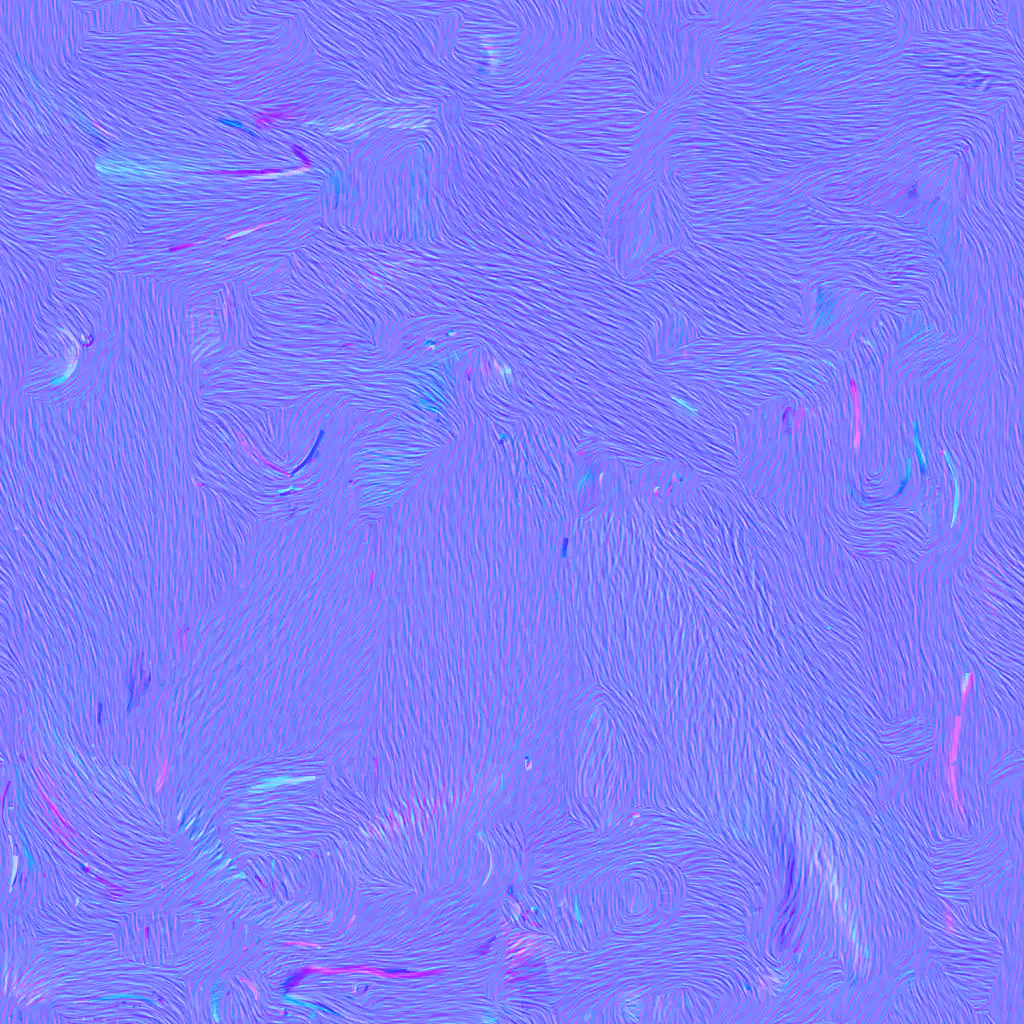
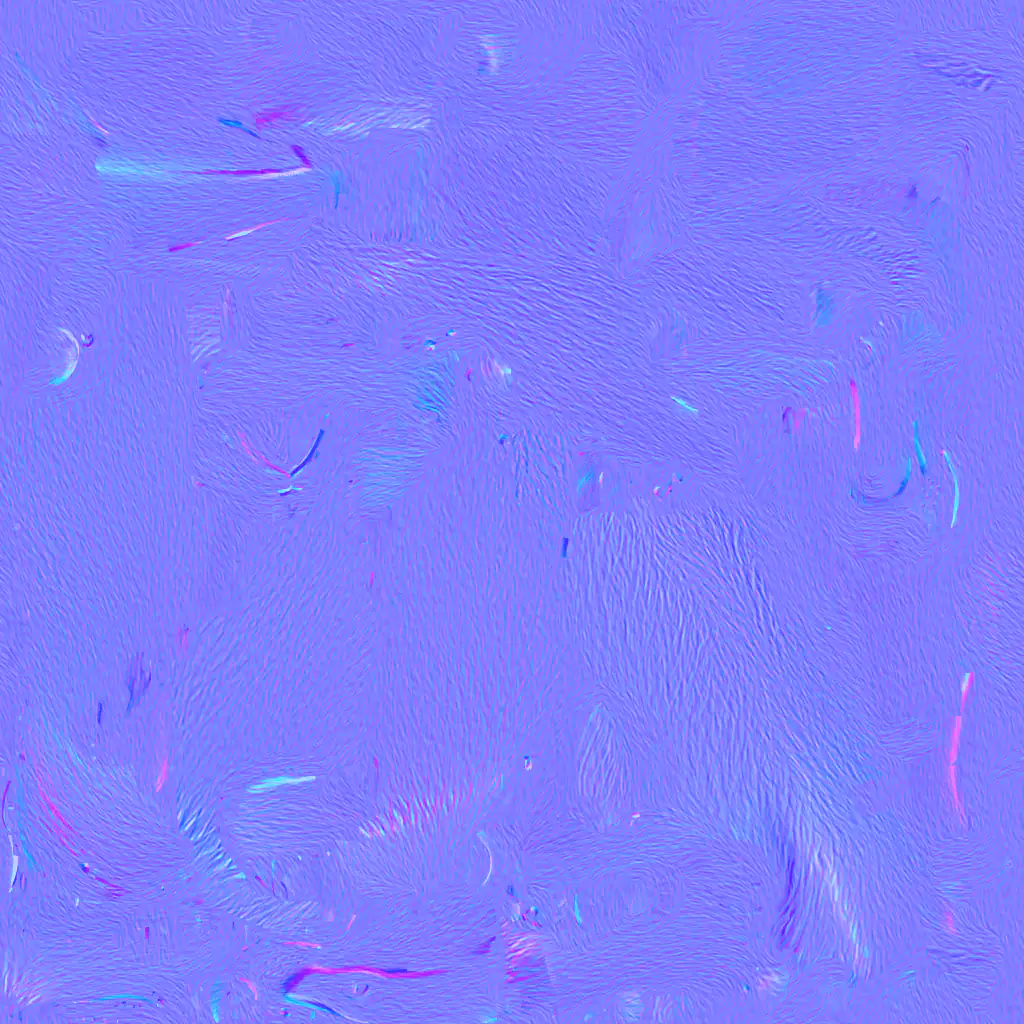
fix(tools): make the added fur strands of the badger softer
The badger maps had the first strand values of the fox: long, regular
strands (10.5 px, coherence 0.81) in both the color map and the normal
map, which read as carved grooves on the fox and the rabbit. The badger
now takes the soft values of the fox: tilt 0.03, luma 0.08, and half
length 11 texels. The tool gives the same bytes on a second run.

Changed region(s): [[0.0, 0.0, 1.0, 1.0], [0.5312, 0.5625, 0.5625, 0.5938]]

diff --git a/tools/badger-maps.py b/tools/badger-maps.py
@@ -31,7 +31,7 @@ NORMAL_LIMIT = 0.2
 NORMAL_GAIN = 4
 #: The texels of the eyeballs and this many texels around them keep their colors.
 EYE_MARGIN = 4
-#: The fur strands that the maps add (`strands()`), with the values of tools/fox-maps.py. The
+#: The fur strands that the maps add (`strands()`), with the soft values of tools/fox-maps.py. The
 #: normal map of the Tripo badger source is smooth: its median tilt at 1024 pixels is 0.012,
 #: against 0.023 to 0.028 on the Tripo cat, wolf, and rabbit, so its fur shows few strands in the
 #: app. The strands follow the direction of the faint strokes of the source maps, and they have
@@ -44,16 +44,17 @@ STRANDS = {
     'direction_sigma': 24.0,
     #: The sigma in texels at SIZE of the blur of the noise: the width of a strand.
     'width_sigma': 1.4,
-    #: The half length in texels at SIZE of a strand, and the step of its samples.
-    'half_length': 22.0,
+    #: The half length in texels at SIZE of a strand, and the step of its samples. Longer strands
+    #: lay long parallel grooves over the body, which read as carved wood or clay.
+    'half_length': 11.0,
     'step': 1.0,
     #: The sigma in texels at SIZE of the blur that the height of the strands loses (a high pass).
     'high_pass_sigma': 10.0,
     #: The root mean square of the x, y tilt of the strands in the normal map.
-    'tilt': 0.06,
+    'tilt': 0.03,
     #: The luma factor of the strands in the color map, for each standard deviation of the height:
     #: a strand crest is lighter, and a groove darker.
-    'luma': 0.16,
+    'luma': 0.08,
     #: The largest height of a strand, in standard deviations.
     'clip': 2.5,
 }

diff --git a/assets/models/badger/README.md b/assets/models/badger/README.md
@@ -180,7 +180,8 @@ the old badger, the crown stood 0.905 m high, because the head of the source is 
 body.
 
 **Maps** (`tools/badger-maps.py`). The tool scales the color map of the source to 2048 pixels
-(Lanczos), adds the fur strands of `tools/fox-maps.py` (`strands()`, the same values), and writes
+(Lanczos), adds the soft fur strands of `tools/fox-maps.py` (`strands()`, the same values: tilt
+0.03, luma 0.08, half length 11 texels), and writes
 WebP quality 60, method 6 (Pillow 13.0.0). The eyeball texels and 4 texels around them keep their
 colors. The normal map of the source is smooth (median tilt 0.012 at 1024 pixels, against 0.023
 to 0.028 on the cat, the wolf, and the rabbit), so the strands also go into `badger-normal.webp`:
@@ -200,5 +201,5 @@ The export of the file and the maps. License of each file: CC BY-NC 4.0, as the 
 |---|---|---|
[6 lines of base64/hex data omitted]
